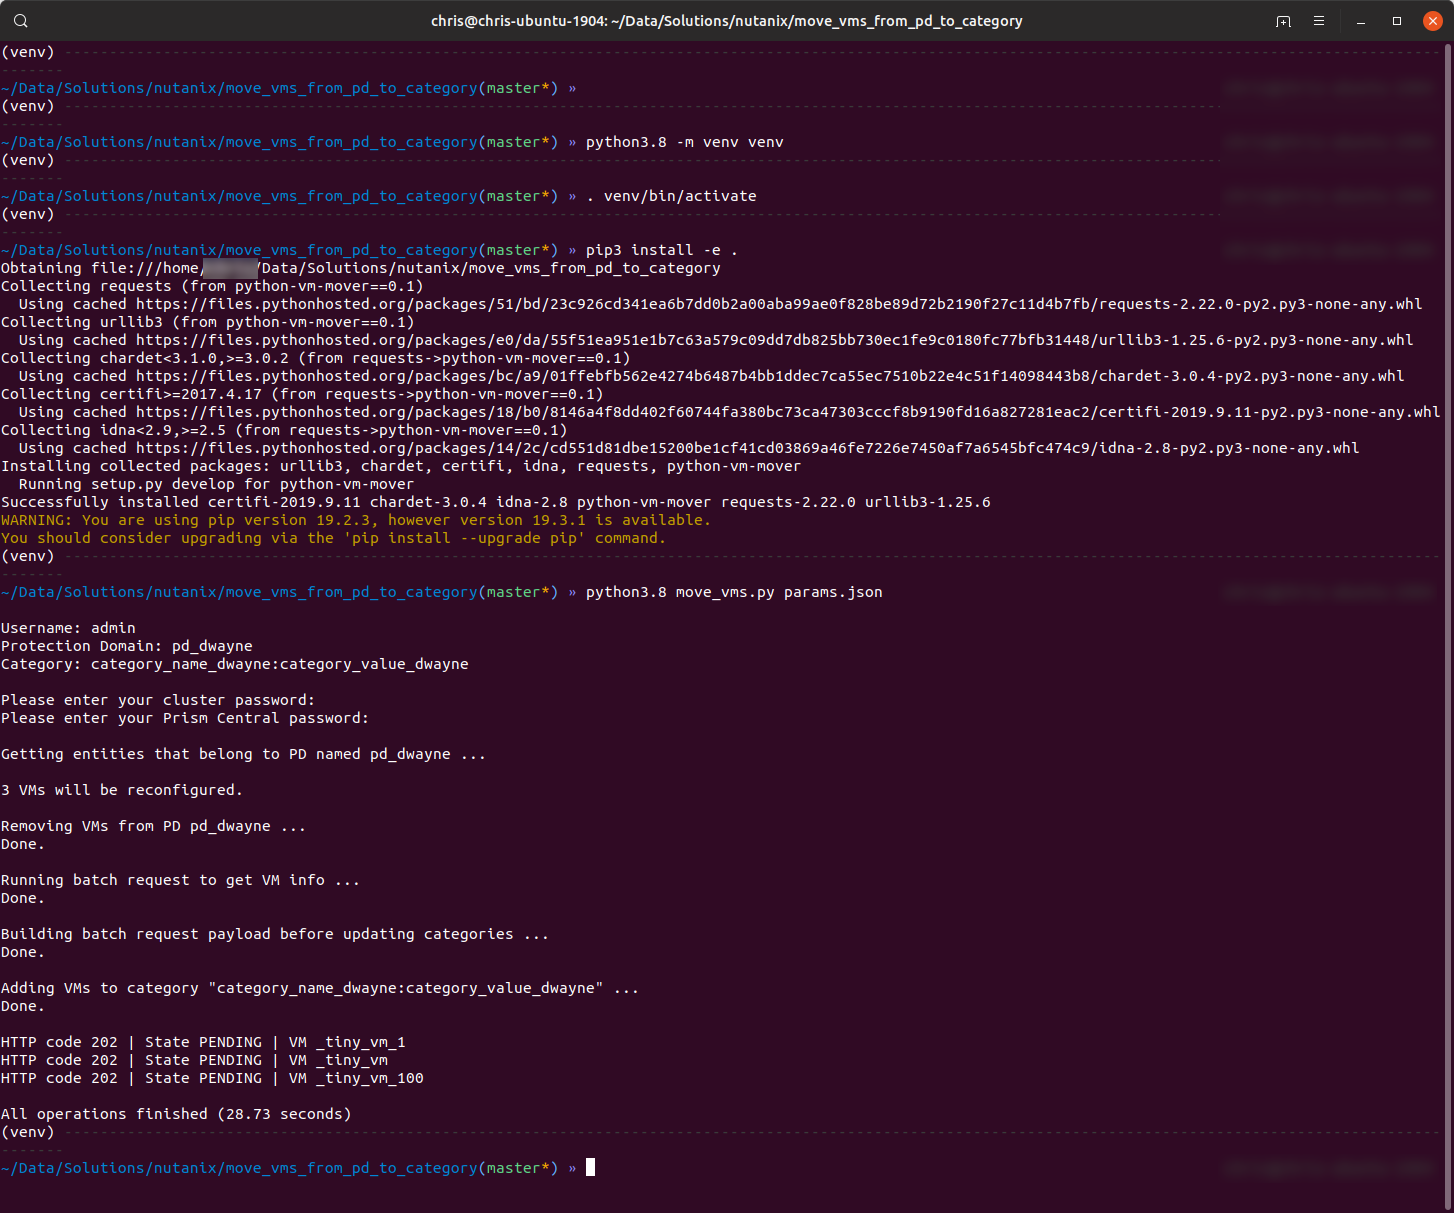
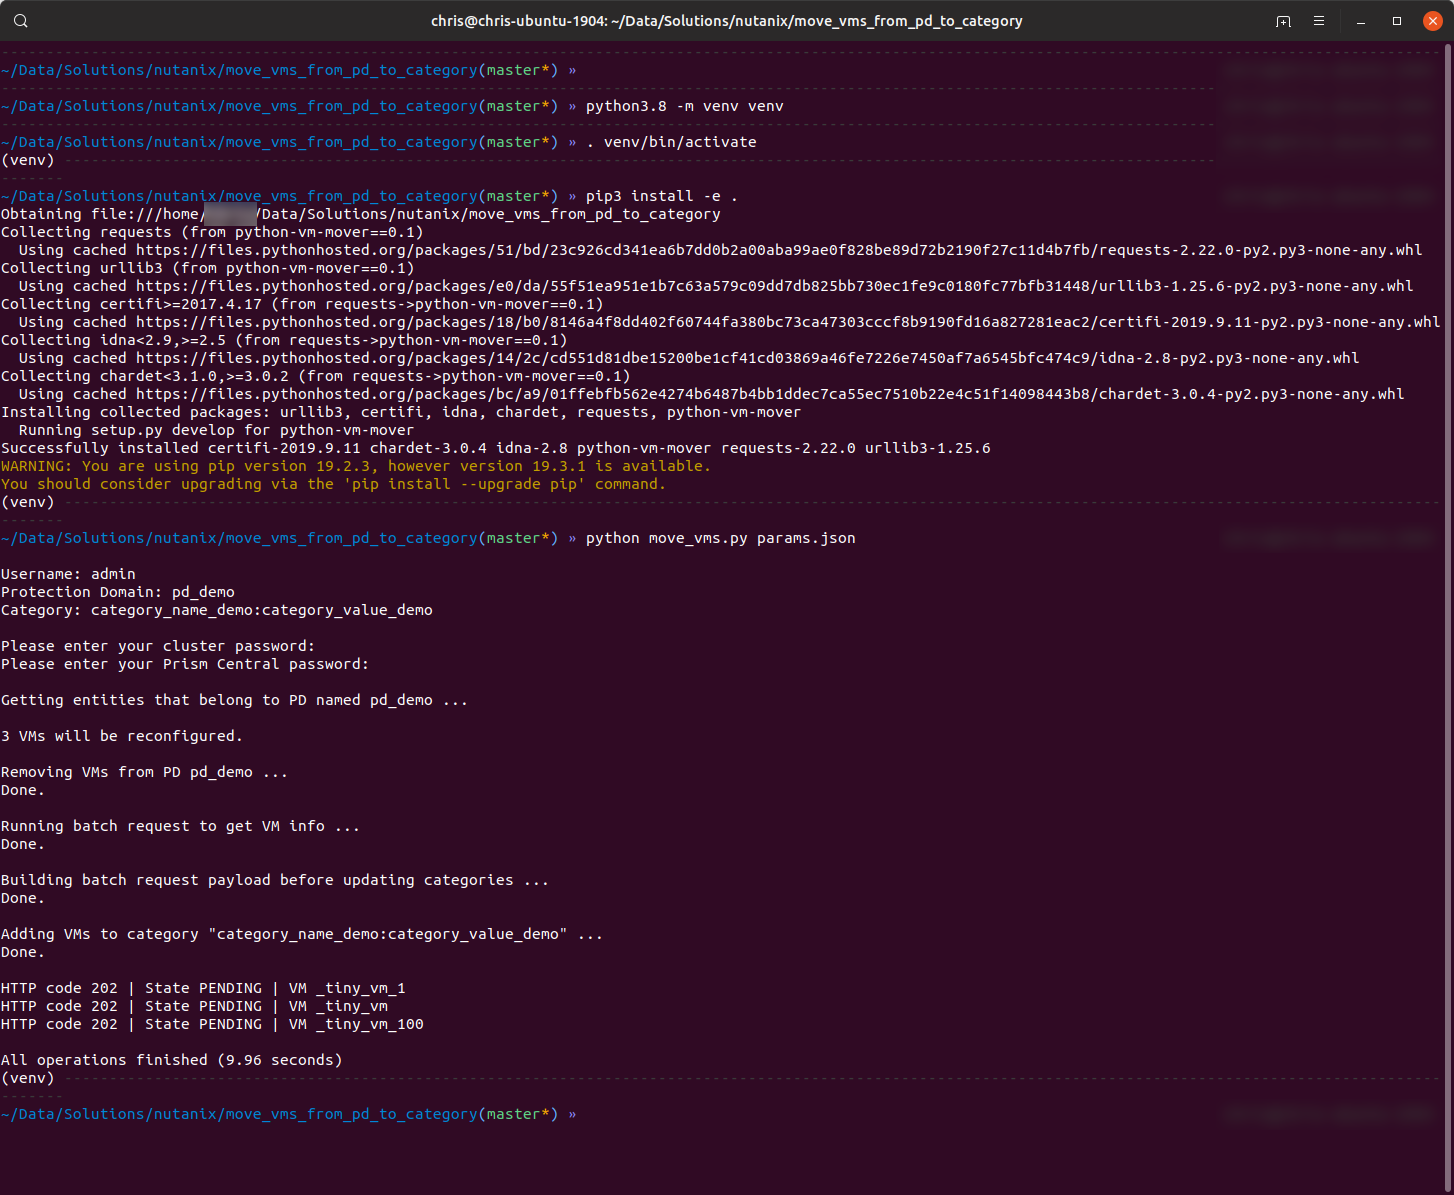
Update parameters and readme

Changed region(s): [[0.0, 0.0, 0.9904, 0.9908], [0.6499, 0.0, 0.6809, 0.031], [0.4333, 0.0, 0.4642, 0.031]]

diff --git a/readme.rst b/readme.rst
@@ -44,11 +44,12 @@ Usage
 
       pip3 install -e .
 
+- Adjust values in **params.json** to match your Prism Element, Prism Central, Protection Domain and category settings
 - Run the script:
 
    .. code-block:: python
 
-      python3.8 listpds.py listparms.json
+      python3.8 move_vms.py params.json
 
 ----------
 Screenshot
